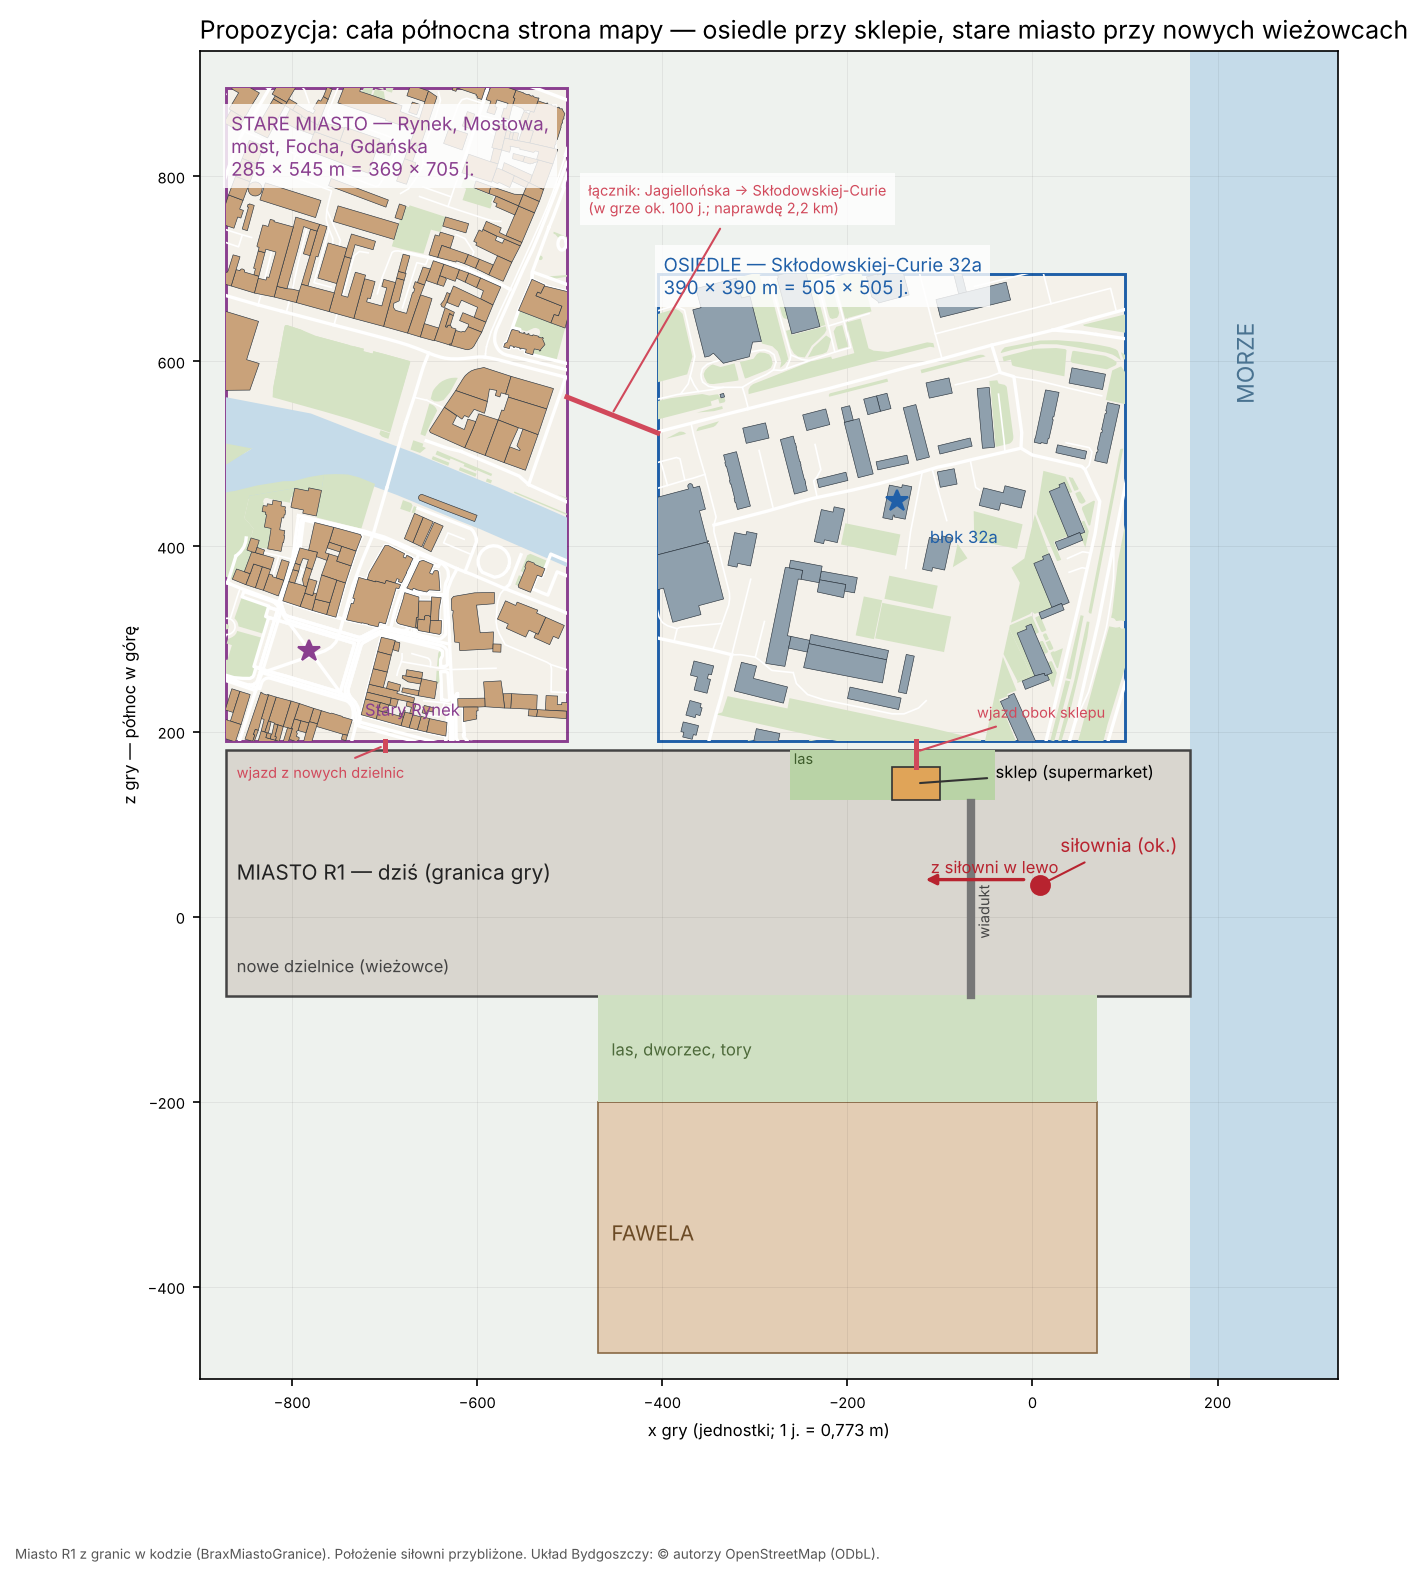
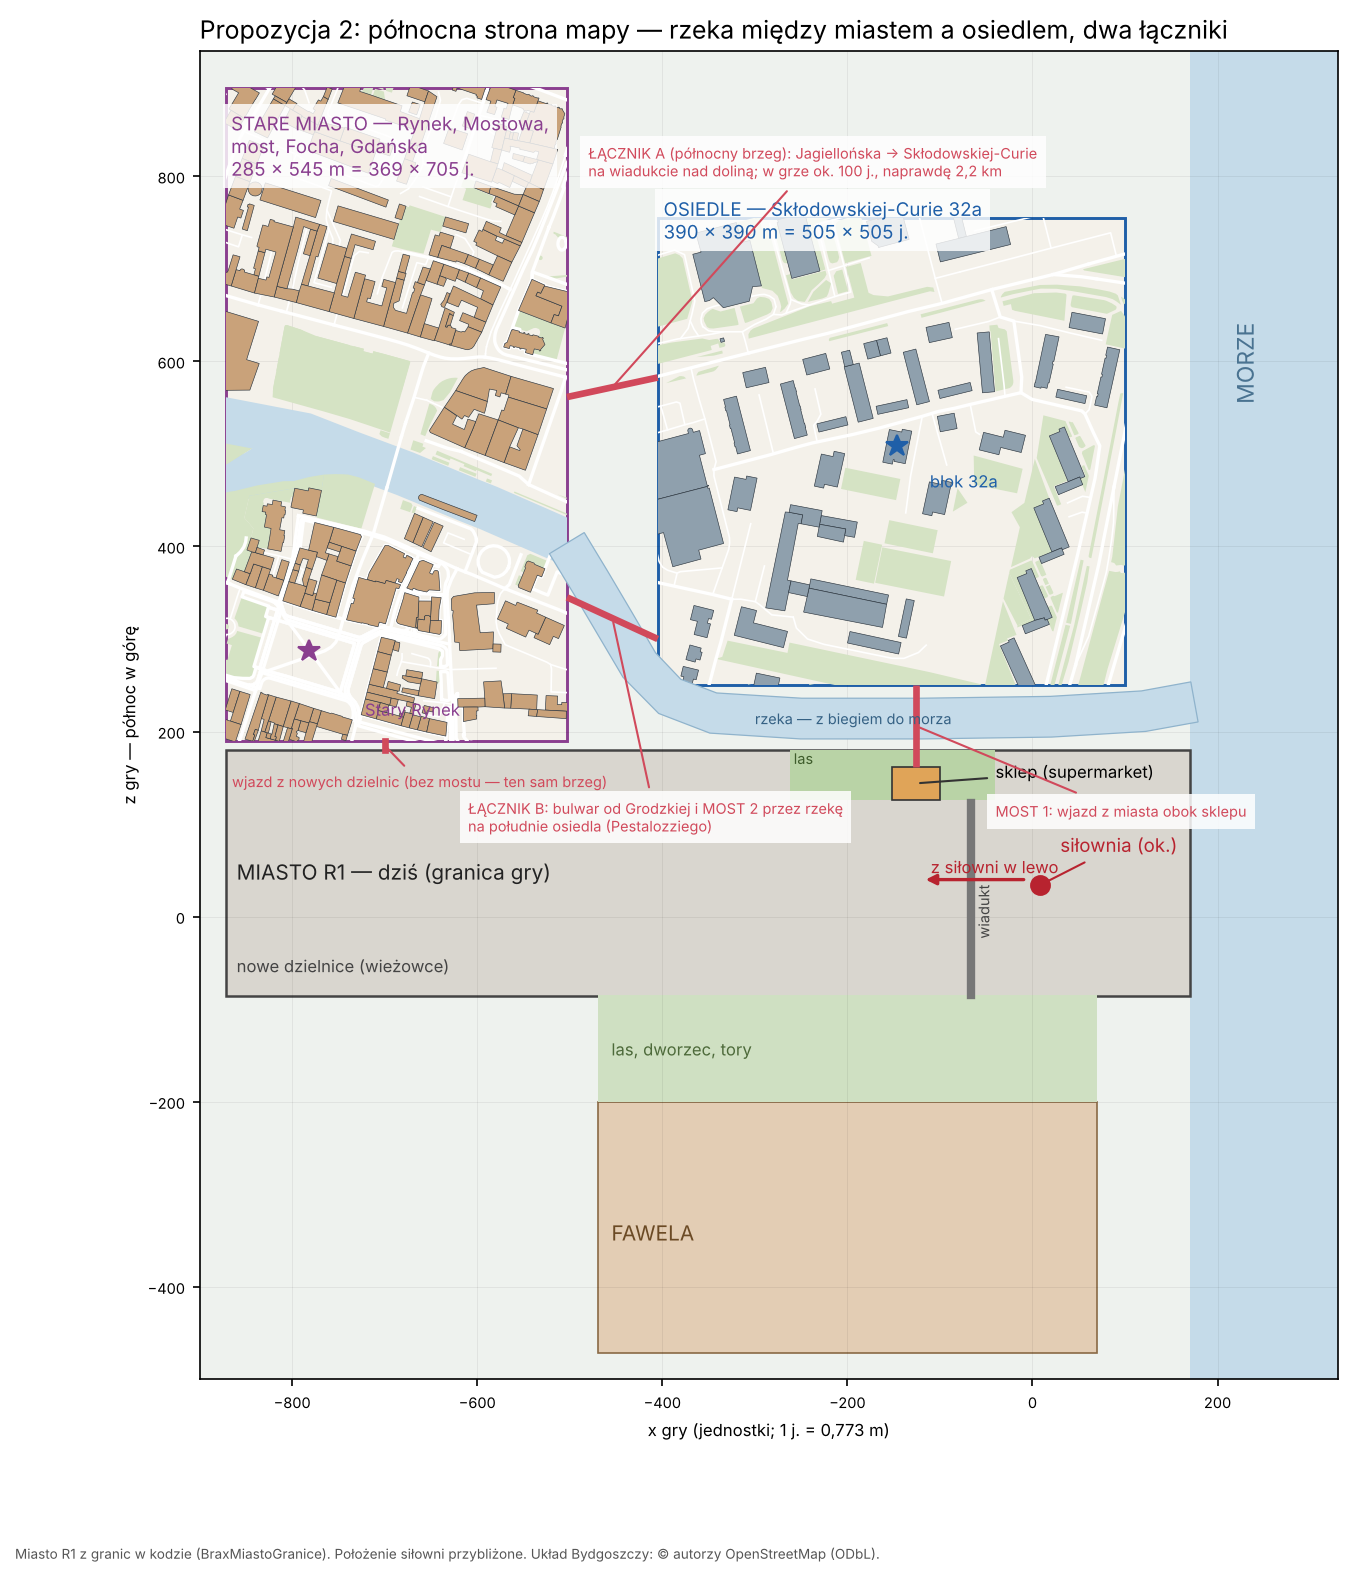
BYDGOSZCZ: propozycja 2 - rzeka lukiem miedzy miastem a osiedlem, dwa laczniki, mosty (wlasciciel 02:26)
Osiedle odsuniete o 60 j. na polnoc (blok 32a = -145.9; 508.8), dane przeliczone.

Claude-Session: https://claude.ai/code/session_01J5qMPcBYHFaK6bYeWejT1T

diff --git a/bydgoszcz/narzedzia/uklad_gry.py b/bydgoszcz/narzedzia/uklad_gry.py
@@ -24,7 +24,7 @@ A = wytnij(os_, -200, 190, -200, 190)          # osiedle: 390 x 390 m
 B = wytnij(ry, -70, 215, -75, 470)             # stare miasto: 285 x 545 m
 # kotwice w grze (propozycja po słowach właściciela 02:18: cała północna strona WZDŁUŻ mapy, aż po nowe wieżowce,
 # bez wydłużania mapy): osiedle za lasem przy sklepie, stare miasto na zachód od niego, przy nowych dzielnicach.
-KA = (round(100.0 - 190 * K, 1), round(190.0 + 200 * K, 1))      # (0,0) = blok 32a; wycinek x -405..100, z 190..695
+KA = (round(100.0 - 190 * K, 1), round(250.0 + 200 * K, 1))      # (0,0) = blok 32a; wycinek x -405..100, z 250..755 (60 j. na rzekę od południa)
 KB = (round(-872.0 + 70 * K, 1), round(190.0 + 75 * K, 1))       # (0,0) = środek Starego Rynku; wycinek x -872..-503, z 190..895
 def gra(p, k): return [(round(k[0] + x * K, 2), round(k[1] + y * K, 2)) for x, y in p]
 def zapis(w, k, nazwa, opis):
@@ -68,15 +68,21 @@ rB = ax.add_patch(Rectangle((KB[0] - 70 * K, KB[1] - 75 * K), 285 * K, 545 * K, 
 rysuj(B, KB, "#c9a27a", rB)
 ax.text(KB[0] - 70 * K + 6, KB[1] + 470 * K - 26, "STARE MIASTO — Rynek, Mostowa,\nmost, Focha, Gdańska\n285 × 545 m = 369 × 705 j.", fontsize=9, color="#8a3f8f", zorder=8, bbox=dict(fc="#ffffffd0", ec="none"), va="top")
 ax.plot(*KB, "*", ms=11, color="#8a3f8f", zorder=9); ax.annotate("Stary Rynek", xy=KB, xytext=(KB[0] + 60, KB[1] - 70), fontsize=8, color="#8a3f8f", zorder=9)
-# laczniki (propozycja)
-ax.plot([-126, -126], [162, 190], color="#d1495b", lw=2.4, zorder=6); ax.annotate("wjazd obok sklepu", xy=(-126, 178), xytext=(-60, 215), fontsize=7, color="#d1495b", arrowprops=dict(arrowstyle="-", color="#d1495b"), zorder=9)
+# rzeka i laczniki (propozycja; wlasciciel 02:26: dwa laczniki albo wiadukt, rzeka zaokraglona, zeby tamtedy plynela)
+RZEKA = [(-503.2, 403.6), (-478, 362), (-452, 318), (-425, 272), (-392, 238), (-345, 220), (-250, 214), (-120, 214), (20, 216), (120, 222), (175, 232)]
+ax.add_patch(Polygon(pas(RZEKA, 22), closed=True, fc="#c5dbe9", ec="#8fb3cc", lw=.6, zorder=5))
+ax.text(-300, 208, "rzeka — z biegiem do morza", fontsize=7, color="#356184", zorder=9)
+def most(x0, z0, x1, z1, opis, tx, tz):
+    ax.plot([x0, x1], [z0, z1], color="#d1495b", lw=3.2, zorder=8, solid_capstyle="butt")
+    ax.annotate(opis, xy=((x0 + x1) / 2, (z0 + z1) / 2), xytext=(tx, tz), fontsize=7, color="#d1495b", arrowprops=dict(arrowstyle="-", color="#d1495b"), zorder=9, bbox=dict(fc="#ffffffd8", ec="none"))
+most(-126, 162, -126, 250, "MOST 1: wjazd z miasta obok sklepu", -40, 108)
 zj = KB[1] + 212 * K; zs = KA[1] + 57 * K
-ax.plot([-503, -405], [zj, zs], color="#d1495b", lw=2.4, zorder=6)
-ax.annotate("łącznik: Jagiellońska → Skłodowskiej-Curie\n(w grze ok. 100 j.; naprawdę 2,2 km)", xy=(-455, (zj + zs) / 2), xytext=(-480, 760), fontsize=7, color="#d1495b", arrowprops=dict(arrowstyle="-", color="#d1495b"), zorder=9, bbox=dict(fc="#ffffffd0", ec="none"))
-ax.plot([-700, -700], [180, 190], color="#d1495b", lw=2.4, zorder=6); ax.annotate("wjazd z nowych dzielnic", xy=(-700, 185), xytext=(-860, 150), fontsize=7, color="#d1495b", arrowprops=dict(arrowstyle="-", color="#d1495b"), zorder=9)
+most(-503, zj, -405, zs, "ŁĄCZNIK A (północny brzeg): Jagiellońska → Skłodowskiej-Curie\nna wiadukcie nad doliną; w grze ok. 100 j., naprawdę 2,2 km", -480, 800)
+most(-503, 345, -405, 300, "ŁĄCZNIK B: bulwar od Grodzkiej i MOST 2 przez rzekę\nna południe osiedla (Pestalozziego)", -610, 92)
+ax.plot([-700, -700], [180, 190], color="#d1495b", lw=3.2, zorder=8); ax.annotate("wjazd z nowych dzielnic (bez mostu — ten sam brzeg)", xy=(-700, 185), xytext=(-865, 140), fontsize=7, color="#d1495b", arrowprops=dict(arrowstyle="-", color="#d1495b"), zorder=9)
 ax.text(-860, -60, "nowe dzielnice (wieżowce)", fontsize=8, color="#444", zorder=6)
 ax.set_xlim(-900, 330); ax.set_ylim(-500, KB[1] + 470 * K + 40); ax.set_aspect("equal")
 ax.set_xlabel("x gry (jednostki; 1 j. = 0,773 m)", fontsize=8); ax.set_ylabel("z gry — północ w górę", fontsize=8); ax.tick_params(labelsize=7); ax.grid(color="#0000000f", lw=.5)
-ax.set_title("Propozycja: cała północna strona mapy — osiedle przy sklepie, stare miasto przy nowych wieżowcach", fontsize=12, loc="left")
+ax.set_title("Propozycja 2: północna strona mapy — rzeka między miastem a osiedlem, dwa łączniki", fontsize=12, loc="left")
 fig.text(.01, .006, "Miasto R1 z granic w kodzie (BraxMiastoGranice). Położenie siłowni przybliżone. Układ Bydgoszczy: © autorzy OpenStreetMap (ODbL).", fontsize=6.5, color="#555")
 fig.savefig(sys.argv[2], bbox_inches="tight", facecolor="white"); print("zapisano", sys.argv[2], "KA", KA, "KB", KB)

diff --git a/bydgoszcz/README.md b/bydgoszcz/README.md
@@ -25,6 +25,23 @@
 
 Rysunek: `plany/propozycja-miejsca-miasto-r1.png`.
 
+### Rzeka i łączniki (właściciel 02:26)
+
+*„Łącznik Jagiellońska–Skłodowska to mogą być dwa, nie jeden, albo jeden przez wiadukt, który trzeba przejechać
+(…) tam też rzeka może płynąć, tę rzekę może jakoś zaokrąglić, że tam przepływa”.*
+
+Propozycja 2 na rysunku:
+
+- **Rzeka** wypływa ze starego miasta spod mostu przy Mostowej, zakręca łukiem na południowy wschód i płynie
+  między lasem Miasta R1 a osiedlem do morza (korytarz z 190…240). Osiedle odsunięte o 60 j. na północ:
+  blok 32a = (−145,9; **508,8**), wycinek z 250…755.
+- **Most 1** — wjazd z miasta obok sklepu, przez rzekę.
+- **Łącznik A** (północny brzeg) — Jagiellońska → Skłodowskiej-Curie, na wiadukcie nad doliną.
+- **Łącznik B** — bulwar od Grodzkiej i **most 2** przez rzekę na południe osiedla (ul. Pestalozziego).
+- Wjazd z nowych dzielnic na Stary Rynek bez mostu: ten sam brzeg.
+
+Przebieg rzeki poza starym miastem jest wymyślony (w Bydgoszczy Brda płynie inaczej) — to decyzja właściciela.
+
 ## Co jest w tym folderze
 
 | Plik | Co to |
@@ -40,7 +57,7 @@ Rysunek: `plany/propozycja-miejsca-miasto-r1.png`.
 
 **Dane.** Źródło: OpenStreetMap, pobrane 23.11.2026 (`api.openstreetmap.org`). Każdy budynek ma obrys
 (`obrys_xz`), adres, rodzaj, liczbę pięter (jeśli jest w mapie), długość, szerokość i kąt. Jednostka gry =
-metr × 1,294; x na wschód, z na północ. Punkt zerowy osiedla (blok 32a) = (−145,9; 448,8), Starego Rynku =
+metr × 1,294; x na wschód, z na północ. Punkt zerowy osiedla (blok 32a) = (−145,9; 508,8), Starego Rynku =
 (−781,4; 287,1) — to jedna para liczb w `narzedzia/uklad_gry.py`, gdyby miejsce miało być inne.
 
 **Licencja mapy:** ODbL. Gra, która korzysta z tego układu, potrzebuje w napisach wpisu
